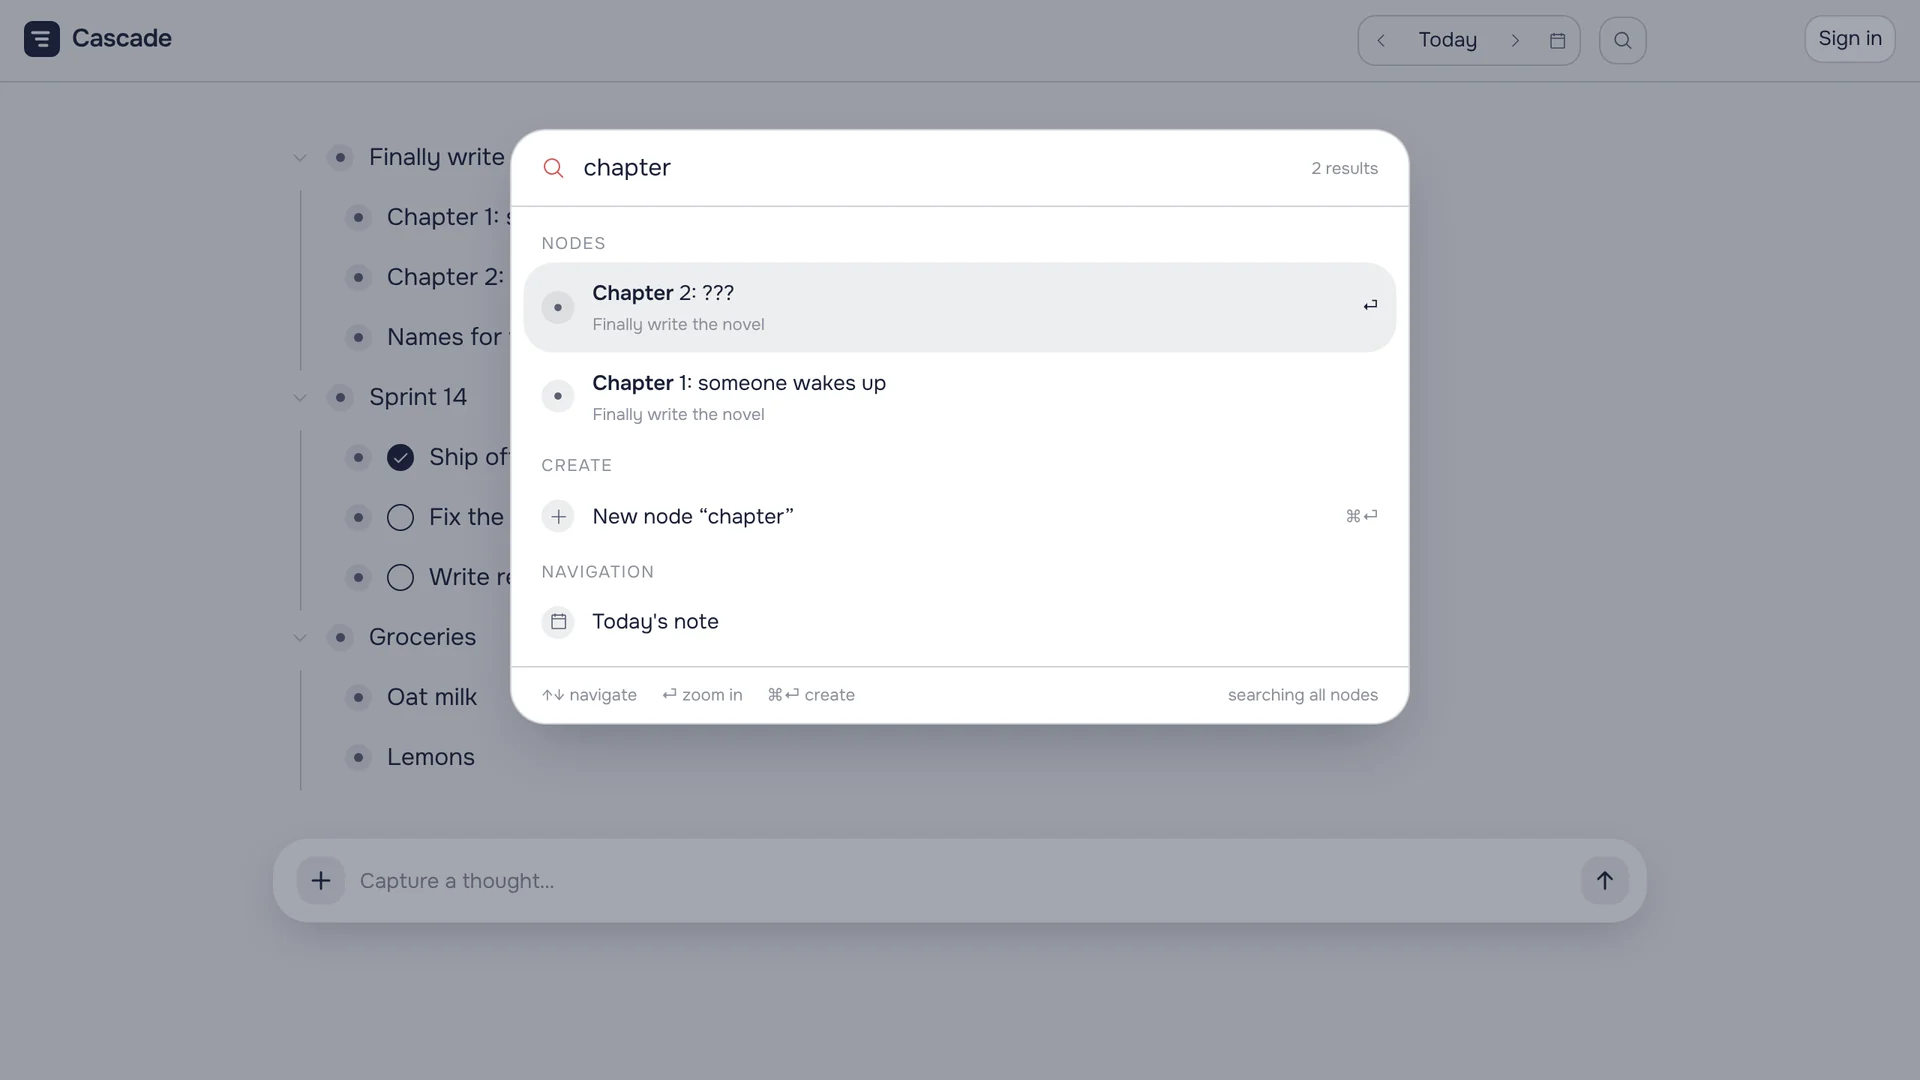
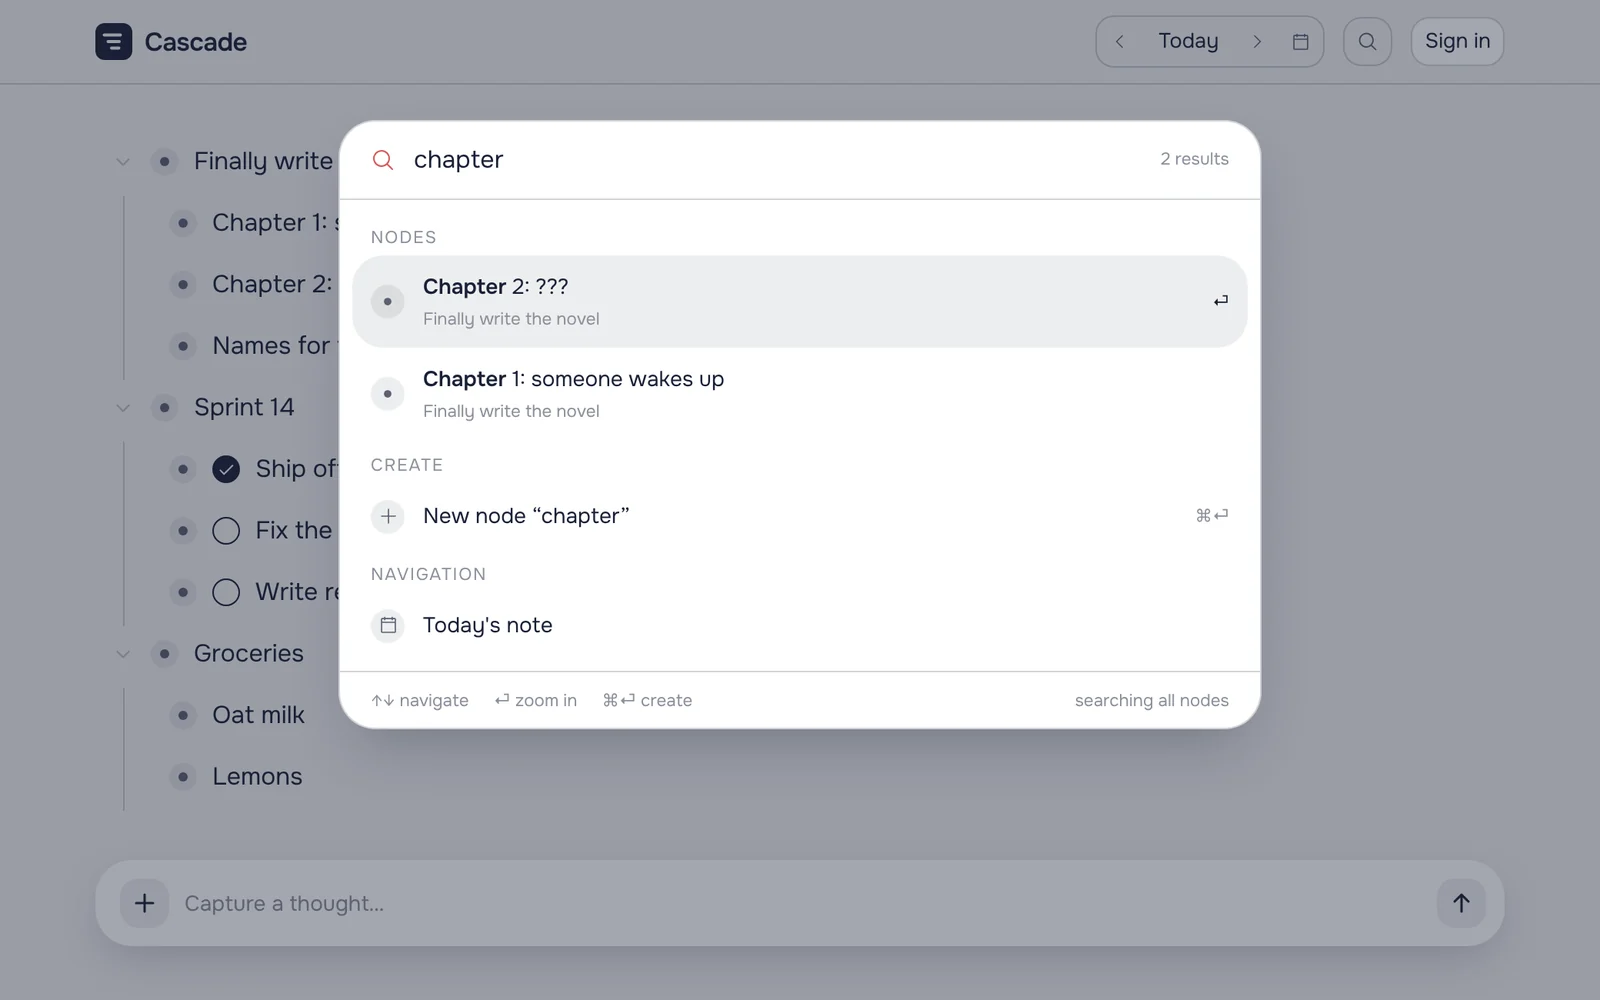
feat(website): set Cascadelist screenshots on coloured backdrops (#50)

diff --git a/apps/website/src/components/ui/backdrop/backdrop.tsx b/apps/website/src/components/ui/backdrop/backdrop.tsx
@@ -1,0 +1,37 @@
+import { cva, type VariantProps } from 'class-variance-authority'
+import type { ReactNode } from 'react'
+
+const tones = ['navy', 'plum', 'azure', 'coral'] as const
+
+const backdropStyles = cva('rounded-card', {
+  variants: {
+    tone: { navy: 'bg-navy', plum: 'bg-plum', azure: 'bg-azure', coral: 'bg-coral' },
+    inset: { sm: 'p-fluid-xs', md: 'p-fluid-m' },
+  },
+  defaultVariants: { inset: 'md' },
+})
+
+export type BackdropVariants = Omit<NonNullable<VariantProps<typeof backdropStyles>>, 'tone'>
+
+export type BackdropProps = BackdropVariants & {
+  /** Picks the colour: the same seed always gets the same one, so server and client agree. */
+  seed: string
+  children: ReactNode
+}
+
+function toneFor(seed: string) {
+  let hash = 2166136261
+  for (const char of seed) hash = Math.imul(hash ^ char.charCodeAt(0), 16777619) >>> 0
+  return tones[((hash ^ (hash >>> 15)) >>> 0) % tones.length]
+}
+
+/** A screenshot inset on a coloured panel, so it reads as a picture and not as part of the page. */
+export function Backdrop({ seed, inset, children }: BackdropProps) {
+  return (
+    <div className={backdropStyles({ tone: toneFor(seed), inset })}>
+      <div className="overflow-hidden rounded-md shadow-[0_24px_48px_-16px_rgba(0,0,0,.5)] *:rounded-none">
+        {children}
+      </div>
+    </div>
+  )
+}

diff --git a/apps/website/src/components/cascade/shot.tsx b/apps/website/src/components/cascade/shot.tsx
@@ -1,14 +1,15 @@
-import { Image, type ImageProps } from '@/components/ui/image/image'
+import { Backdrop, type BackdropVariants } from '@/components/ui/backdrop/backdrop'
+import { Image } from '@/components/ui/image/image'
 import { Label } from '@/components/ui/label/label'
 
-type ShotProps = Pick<ImageProps, 'src' | 'alt' | 'ratio'> & { caption: string }
+type ShotProps = BackdropVariants & { src: string; alt: string; caption: string }
 
-export function Shot({ caption, ratio = '16/9', ...props }: ShotProps) {
+export function Shot({ caption, inset, src, alt }: ShotProps) {
   return (
     <figure className="flex flex-col gap-3">
-      <div className="overflow-hidden rounded-card">
-        <Image ratio={ratio} {...props} />
-      </div>
+      <Backdrop seed={src} inset={inset}>
+        <Image ratio="16/10" src={src} alt={alt} />
+      </Backdrop>
       <Label size="xs" render={<figcaption />}>
         {caption}
       </Label>

diff --git a/apps/website/src/components/home/featured-project.tsx b/apps/website/src/components/home/featured-project.tsx
@@ -1,3 +1,4 @@
+import { Backdrop } from '@/components/ui/backdrop/backdrop'
 import { Image } from '@/components/ui/image/image'
 import { Tag } from '@/components/ui/tag/tag'
 import { Title } from '@/components/ui/title/title'
@@ -30,13 +31,13 @@ export function FeaturedProject() {
               </Typography>
             </div>
           </div>
-          <div className="overflow-hidden rounded-card">
+          <Backdrop seed="/projects/cascade/outline.webp" inset="sm">
             <Image
-              ratio="4/3"
+              ratio="16/10"
               src="/projects/cascade/outline.webp"
               alt="A Cascade outline with three nested groups: a novel, a sprint with tasks, and groceries"
             />
-          </div>
+          </Backdrop>
         </a>
       </section>
     </>

diff --git a/apps/website/src/components/cascade/header.tsx b/apps/website/src/components/cascade/header.tsx
@@ -1,3 +1,4 @@
+import { Backdrop } from '@/components/ui/backdrop/backdrop'
 import { LinkButton } from '@/components/ui/button/link-button'
 import { Image } from '@/components/ui/image/image'
 import { Title } from '@/components/ui/title/title'
@@ -27,14 +28,14 @@ export function Header() {
           </LinkButton>
         </div>
       </div>
-      <div className="overflow-hidden rounded-card">
+      <Backdrop seed="/projects/cascade/website.webp">
         <Image
           priority
-          ratio="16/9"
+          ratio="16/10"
           src="/projects/cascade/website.webp"
           alt="The Cascadelist homepage: the headline 'Every thought gets a place to land' beside a small live outline"
         />
-      </div>
+      </Backdrop>
     </header>
   )
 }

diff --git a/apps/website/src/components/cascade/website.tsx b/apps/website/src/components/cascade/website.tsx
@@ -15,7 +15,6 @@ export function Website() {
             </Typography>
           </div>
           <Shot
-            ratio="16/10"
             src="/projects/cascade/features.webp"
             alt="The features section of cascadelist.com: cards for Board, Table, Links and backlinks, Mirrors, Split pane and History, each marked coming soon"
             caption="One outline, a dozen ways to look at it: the views on the roadmap."

diff --git a/apps/website/src/components/cascade/gallery.tsx b/apps/website/src/components/cascade/gallery.tsx
@@ -27,7 +27,7 @@ export function Gallery() {
   return (
     <div className="mt-fluid-4xl grid gap-x-3 gap-y-8 md:grid-cols-2">
       {shots.map((shot) => (
-        <Shot key={shot.src} {...shot} />
+        <Shot key={shot.src} inset="sm" {...shot} />
       ))}
     </div>
   )
